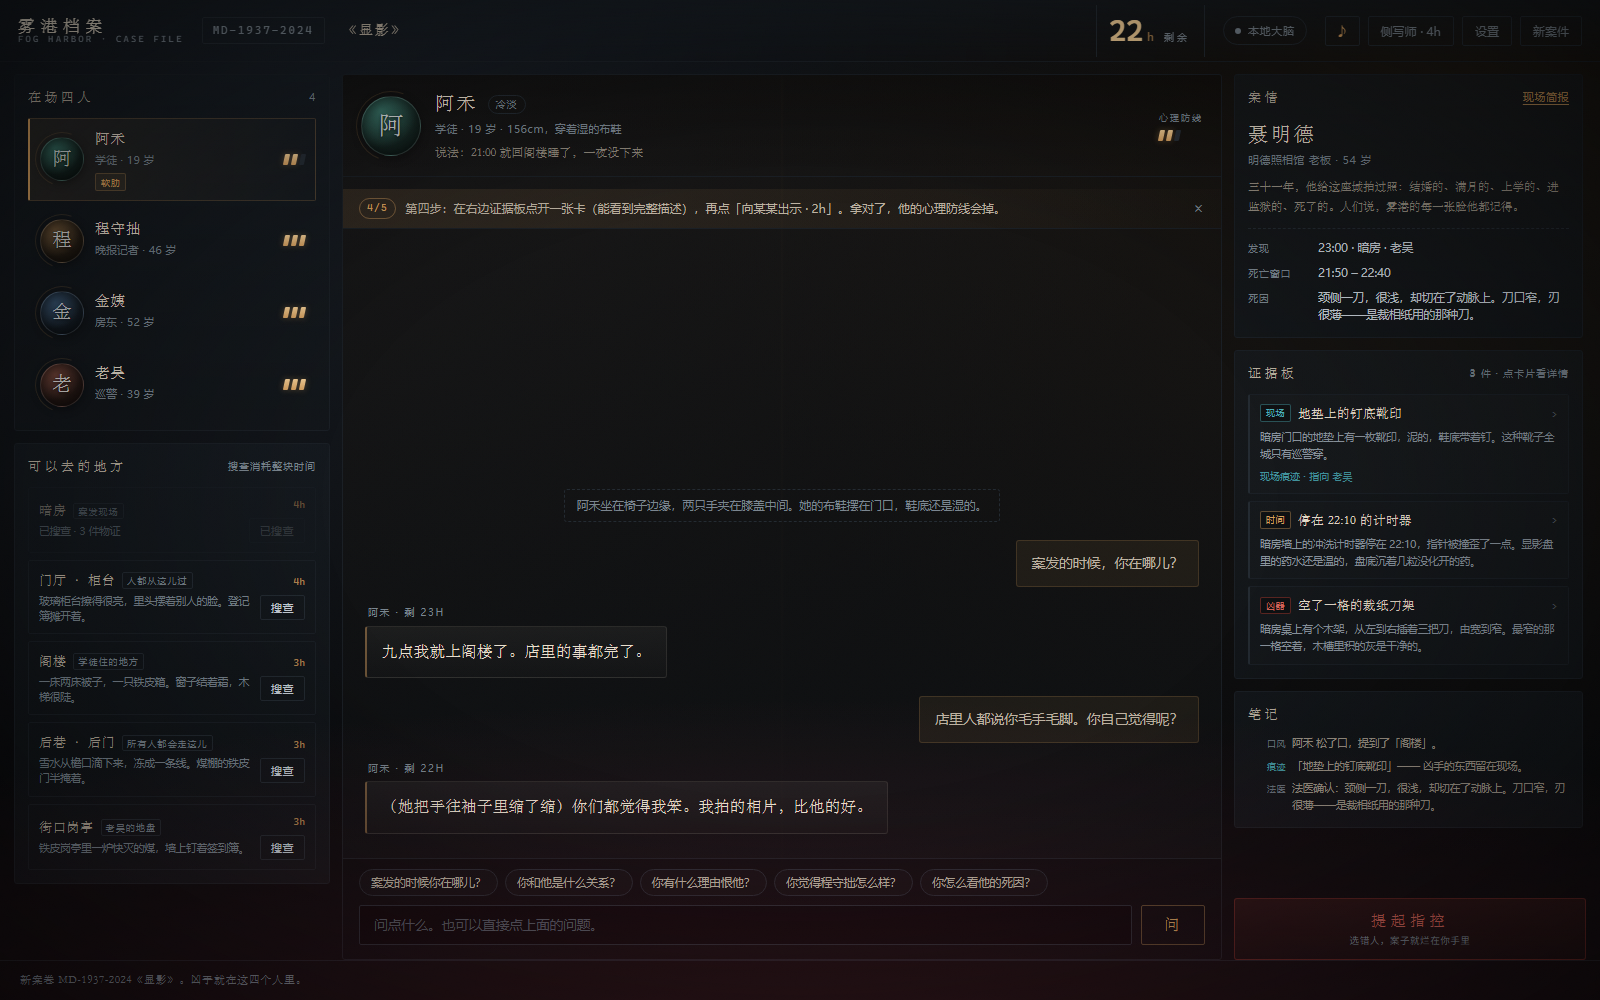
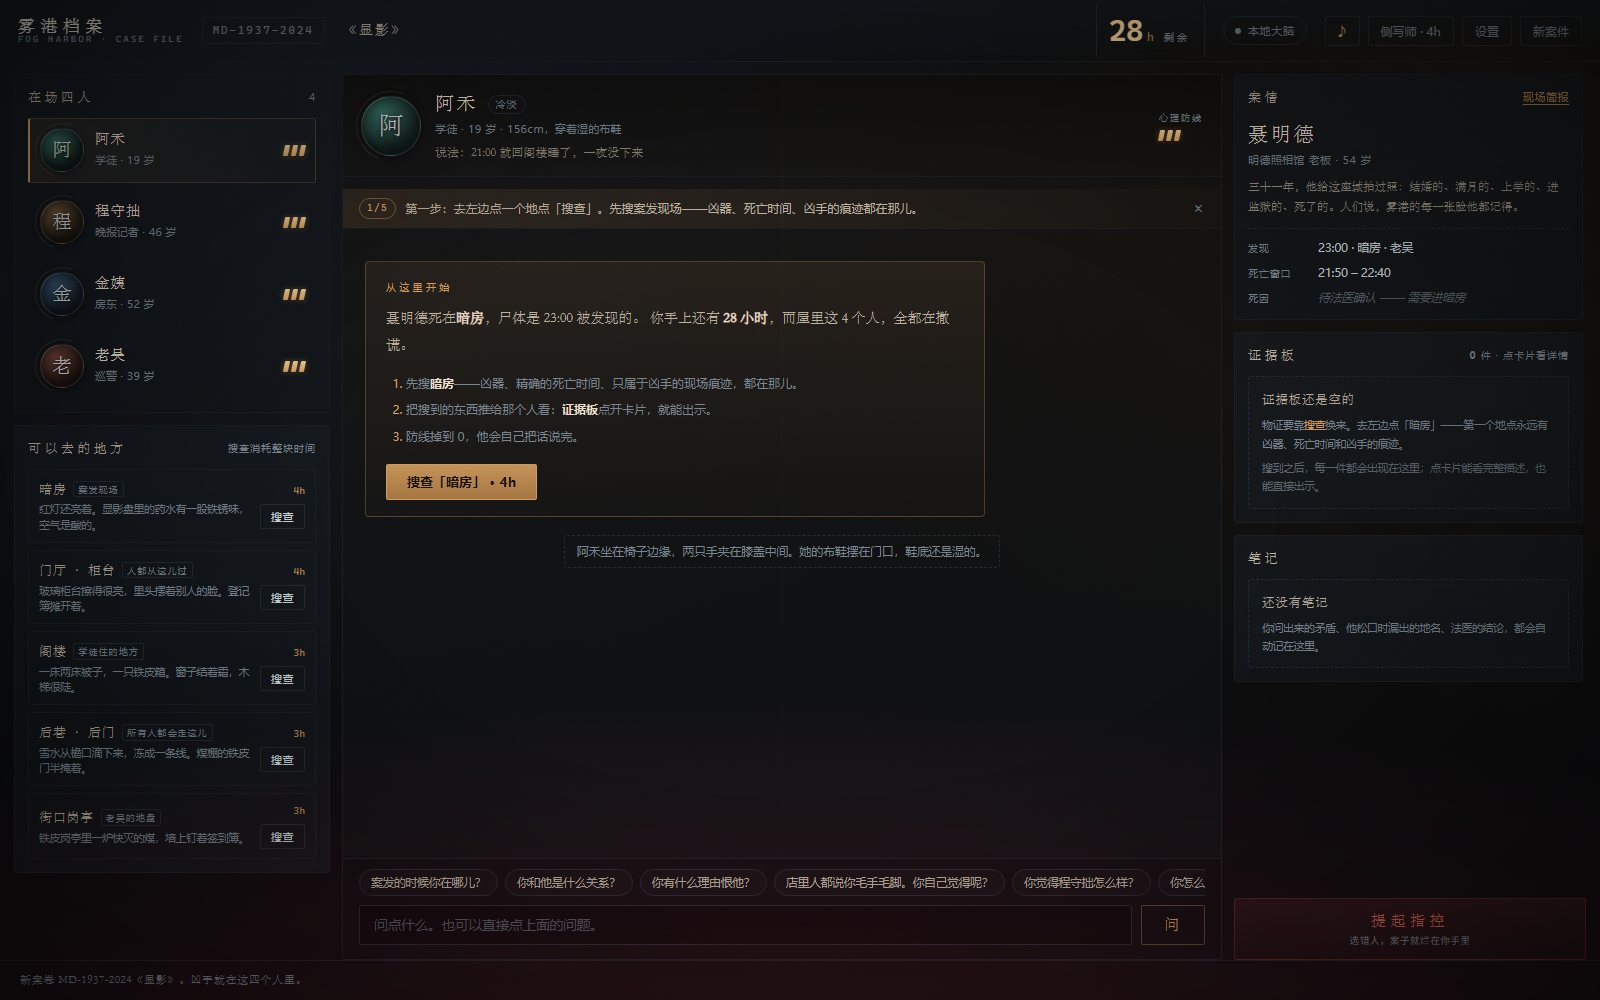
游戏体验修正：线索卡片可点开看详情并直接出示；开局加『从这里开始』引导卡，证据板/笔记空状态补说明

diff --git a/雾港档案/雾港档案.html b/雾港档案/雾港档案.html
@@ -451,6 +451,50 @@ body[data-case='studio'][data-phase='dawn'] .phase-tint {
 .feed-empty p { margin: 0 0 6px; }
 .feed-empty .dim { font-size: 12px; color: var(--muted); font-family: var(--sans); }
 
+/* 开局卡：第一次进对局时告诉你下一步 */
+.feed-open {
+  border: 1px solid rgba(215, 160, 95, 0.28);
+  border-radius: 4px;
+  padding: 18px 20px 16px;
+  background: linear-gradient(180deg, rgba(215, 160, 95, 0.09), rgba(215, 160, 95, 0.02));
+  max-width: 620px;
+  animation: rise 0.4s cubic-bezier(0.2, 0.7, 0.3, 1);
+}
+.fo-k {
+  font-size: 9.5px; letter-spacing: 0.4em; color: var(--amber);
+  margin-bottom: 10px; text-transform: uppercase;
+}
+.fo-lead {
+  font-family: var(--serif); font-size: 14px; line-height: 1.95;
+  color: var(--paper-dim); margin: 0 0 12px;
+}
+.fo-lead b, .fo-steps b { color: var(--paper); font-weight: 600; }
+.fo-steps {
+  margin: 0 0 16px; padding-left: 20px;
+  font-size: 12px; line-height: 1.9; color: var(--muted);
+}
+.fo-steps li { margin: 4px 0; }
+.fo-steps li::marker { color: var(--amber); }
+.feed-open .btn { font-size: 12.5px; padding: 9px 20px; }
+
+/* 空状态卡片（证据板 / 笔记） */
+.empty-card {
+  border: 1px dashed var(--line);
+  border-radius: 3px;
+  padding: 12px 13px;
+  background: rgba(255, 255, 255, 0.012);
+}
+.ec-t {
+  font-family: var(--serif); font-size: 12.5px; color: var(--paper-dim);
+  letter-spacing: 0.06em; margin-bottom: 7px;
+}
+.empty-card p {
+  margin: 0 0 6px; font-size: 10.5px; line-height: 1.75; color: var(--muted);
+}
+.empty-card p:last-child { margin-bottom: 0; }
+.empty-card b { color: var(--amber); font-weight: 500; }
+.ec-dim { opacity: 0.72; }
+
 /* 犯人的话贴在底部，像真的坐在对面 */
 .feed > .msg:first-child { margin-top: auto; }
 .msg { display: flex; flex-direction: column; max-width: 84%; animation: rise 0.32s cubic-bezier(0.2, 0.7, 0.3, 1); }
@@ -3622,16 +3666,42 @@ function renderFeed() {
   const list = g.state.transcripts[app.active] || [];
   const feed = $('feed');
   feed.innerHTML = '';
+  // 还没搜过任何地方 = 一局刚开始，先给一张"从这里开始"的卡，别让玩家对着空白发呆
+  const opening = g.state.searched.length === 0 && !g.state.result;
+  if (opening) feed.appendChild(openingCard(g));
   if (!list.length) {
-    feed.innerHTML = `<div class="feed-empty">
-      <p>门关上了。</p>
+    const empty = document.createElement('div');
+    empty.className = 'feed-empty';
+    empty.innerHTML = `<p>门关上了。</p>
       <p class="dim">${esc(E.suspectOf(g, app.active).name)}坐下来，没有先开口。</p>
-      <p class="dim">问点什么。任何事都可以问——但时间在走。</p>
-    </div>`;
-    return;
+      <p class="dim">问点什么。任何事都可以问——但时间在走。</p>`;
+    feed.appendChild(empty);
+  } else {
+    for (const m of list) feed.appendChild(msgEl(m, false));
   }
-  for (const m of list) feed.appendChild(msgEl(m, false));
   feed.scrollTop = feed.scrollHeight;
+  if (opening) {
+    const btn = $('fo-start');
+    if (btn) btn.onclick = () => doSearch(g.case.locations[0].id);
+  }
+}
+
+// 开局卡：告诉你现在在哪、还剩多久、下一步点哪
+function openingCard(g) {
+  const scene = g.case.locations[0];
+  const v = g.case.victim;
+  const box = document.createElement('div');
+  box.className = 'feed-open';
+  box.innerHTML = `<div class="fo-k">从这里开始</div>
+    <p class="fo-lead">${esc(v.name)}死在<b>${esc(v.foundAt)}</b>，尸体是 ${esc(v.foundTime)} 被发现的。
+    你手上还有 <b>${g.state.timeLeft} 小时</b>，而屋里这 ${g.case.suspects.length} 个人，全都在撒谎。</p>
+    <ol class="fo-steps">
+      <li>先搜<b>${esc(scene.name)}</b>——凶器、精确的死亡时间、只属于凶手的现场痕迹，都在那儿。</li>
+      <li>把搜到的东西推给那个人看：<b>证据板</b>点开卡片，就能出示。</li>
+      <li>防线掉到 0，他会自己把话说完。</li>
+    </ol>
+    <button class="btn primary" id="fo-start">搜查「${esc(scene.name)}」 · ${scene.cost}h</button>`;
+  return box;
 }
 
 function msgEl(m, typing) {
@@ -3709,7 +3779,12 @@ function renderEvidence() {
   const found = g.state.found;
   $('clue-count').textContent = found.length;
   if (!found.length) {
-    $('evidence').innerHTML = `<li class="empty-note">还没有物证。先去一个地方搜。</li>`;
+    const scene = g.case.locations[0];
+    $('evidence').innerHTML = `<li class="empty-card">
+      <div class="ec-t">证据板还是空的</div>
+      <p>物证要靠<b>搜查</b>换来。去左边点「${esc(scene.name)}」——第一个地点永远有凶器、死亡时间和凶手的痕迹。</p>
+      <p class="ec-dim">搜到之后，每一件都会出现在这里；点卡片能看完整描述，也能直接出示。</p>
+    </li>`;
     return;
   }
   $('evidence').innerHTML = found
@@ -3738,7 +3813,10 @@ function renderNotes() {
   const g = app.game;
   const notes = g.state.notes.slice(-9).reverse();
   if (!notes.length) {
-    $('notes').innerHTML = `<li class="empty-note">笔记还是空的。</li>`;
+    $('notes').innerHTML = `<li class="empty-card">
+      <div class="ec-t">还没有笔记</div>
+      <p>你问出来的矛盾、他松口时漏出的地名、法医的结论，都会自动记在这里。</p>
+    </li>`;
     return;
   }
   $('notes').innerHTML = notes
